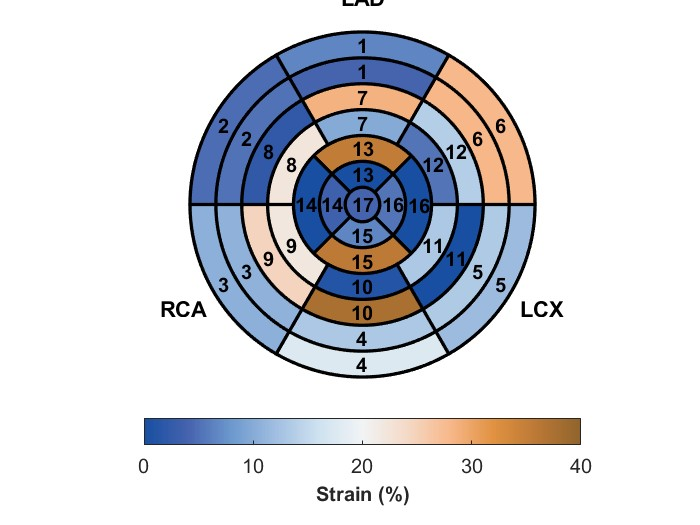
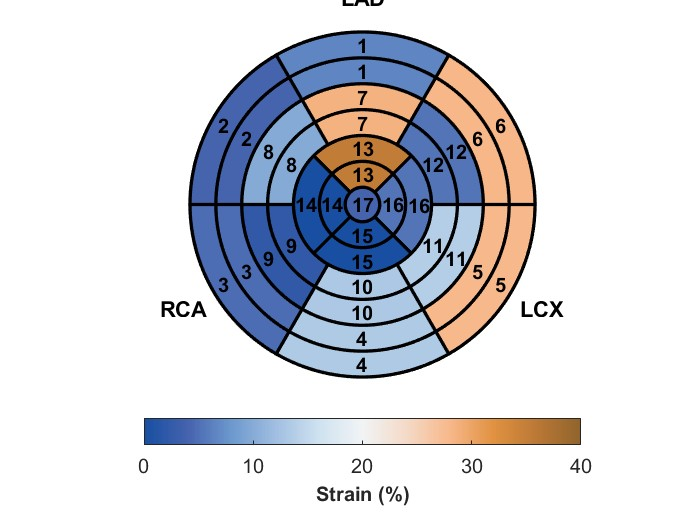
perfect

Changed region(s): [[0.27, 0.0914, 0.78, 0.7314]]

diff --git a/Plot_Err_AHA_Extended.m b/Plot_Err_AHA_Extended.m
@@ -123,8 +123,8 @@ function plotMoreRingsAHA(data)
 
     %base,    mid    apical   apex
 
-    lbR = [ 60,60,   120,120, 180,180 ,240,240, 300,300,  0,0  ,    60,60,   120,120, 180,180 ,240,240, 300,300,  0,0,         45,45, 135,135, 225,225, 315,315,        0  ]; %limites inferiores pa cada segmento
-    ubR = [120,120,  180,180, 240,240 ,300,300, 360,360, 60,60 ,    120,120,  180,180, 240,240 ,300,300, 360,360, 60,60 ,      135,135, 225,225, 315,315, 45,45,      360]; %limites superiores pa cada segmento
+    lbR = [ 60,120,180,240,300,0  , 60,120,180,240,300,0  ,     60,120,180,240,300,0  , 60,120,180,240,300,0  ,         45,135,225,315, 45,135,225,315,        0  ]; %limites inferiores pa cada segmento
+    ubR = [120,180,240,300,360,60 , 120,180,240,300,360,60 ,    120,180,240,300,360,60 , 120,180,240,300,360,60 ,       135,225,315,45 , 135,225,315,45 ,     360]; %limites superiores pa cada segmento
     
     lbZ = [0.85,0.85,0.85,0.85,0.85,0.85      0.7,0.7,0.7,0.7,0.7,0.7,     0.55,0.55,0.55,0.55,0.55,0.55,       0.4,0.4,0.4,0.4,0.4,0.4,       0.25,0.25,0.25,0.25,        0.1,0.1,0.1,0.1,         0  ];
     ubZ = [1.0,1.0,1.0,1.0,1.0,1.0,      0.85,0.85,0.85,0.85,0.85,0.85,       0.7,0.7,0.7,0.7,0.7,0.7,          0.55,0.55,0.55,0.55,0.55,0.55,    0.4,0.4,0.4,0.4,         0.25,0.25,0.25,0.25,    0.1];
@@ -156,35 +156,39 @@ function plotMoreRingsAHA(data)
     [~, tpt_systole] = min(data.total_volumes);
     segment_values = region_avgs(tpt_systole,:);
     rho = [0, 0.1, 0.25, 0.4, 0.55, 0.7, 0.85, 1]; % Radii boundaries for segments
-    segment_labels = [repelem(1:16, 2), 17];
+    segment_labels = 1:33;
 
     % --- Basal (segment 1-6) ---
     basal_angles = [60 120 180 240 300 360];
     %va de angulo a angulo + 60 porque al ser 6 rebanadas, cada una mide 60, coger el valor de AHA en el array de structs, centrar etiqueta en +30
 
-    contador = 1;
     for k = 1:6
-        Plot_Segment(rho(7), rho(8), basal_angles(k), basal_angles(k)+60, segment_values(contador), basal_angles(k)+30, rho(7), segment_labels(contador));
-        Plot_Segment(rho(6), rho(7), basal_angles(k), basal_angles(k)+60, segment_values(contador+1), basal_angles(k)+30, rho(6), segment_labels(contador+1));
-        contador = contador + 2;
+        Plot_Segment(rho(7), rho(8), basal_angles(k), basal_angles(k)+60, segment_values(k), basal_angles(k)+30, rho(7), segment_labels(k));
+    end
+
+    for k = 1:6
+        Plot_Segment(rho(6), rho(7), basal_angles(k), basal_angles(k)+60, segment_values(k+6), basal_angles(k)+30, rho(6), segment_labels(k+6));
     end
 
     % --- Mid (segments 7–12) ---
     mid_angles = [60 120 180 240 300 360];
-    contador = 1;
+    
     for k = 1:6
-        Plot_Segment(rho(5), rho(6), mid_angles(k), mid_angles(k)+60, segment_values(contador+12), mid_angles(k)+30, rho(5), segment_labels(contador+12));
-        Plot_Segment(rho(4), rho(5), mid_angles(k), mid_angles(k)+60, segment_values(contador+12+1), mid_angles(k)+30, rho(4), segment_labels(contador+12+1));
-        contador = contador + 2;
+        Plot_Segment(rho(5), rho(6), mid_angles(k), mid_angles(k)+60, segment_values(k+12), mid_angles(k)+30, rho(5), segment_labels(k+12));
+    end
+
+    for k = 1:6
+        Plot_Segment(rho(4), rho(5), mid_angles(k), mid_angles(k)+60, segment_values(k+18), mid_angles(k)+30, rho(4), segment_labels(k+18));
     end
 
     % --- Apical ring (segments 13–16) ---
     apical_angles = [45 135 225 315];
-    contador = 1;
     for k = 1:4
-        Plot_Segment(rho(3), rho(4), apical_angles(k), apical_angles(k)+90, segment_values(contador+24), apical_angles(k)+45, rho(3), segment_labels(contador+24));
-        Plot_Segment(rho(2), rho(3), apical_angles(k), apical_angles(k)+90, segment_values(contador+24+1), apical_angles(k)+45, rho(2), segment_labels(contador+24+1));
-        contador = contador + 2;
+        Plot_Segment(rho(3), rho(4), apical_angles(k), apical_angles(k)+90, segment_values(k+24), apical_angles(k)+45, rho(3), segment_labels(k+24));
+    end
+
+    for k = 1:4
+        Plot_Segment(rho(2), rho(3), apical_angles(k), apical_angles(k)+90, segment_values(k+28), apical_angles(k)+45, rho(2), segment_labels(k+28));
     end
 
 
